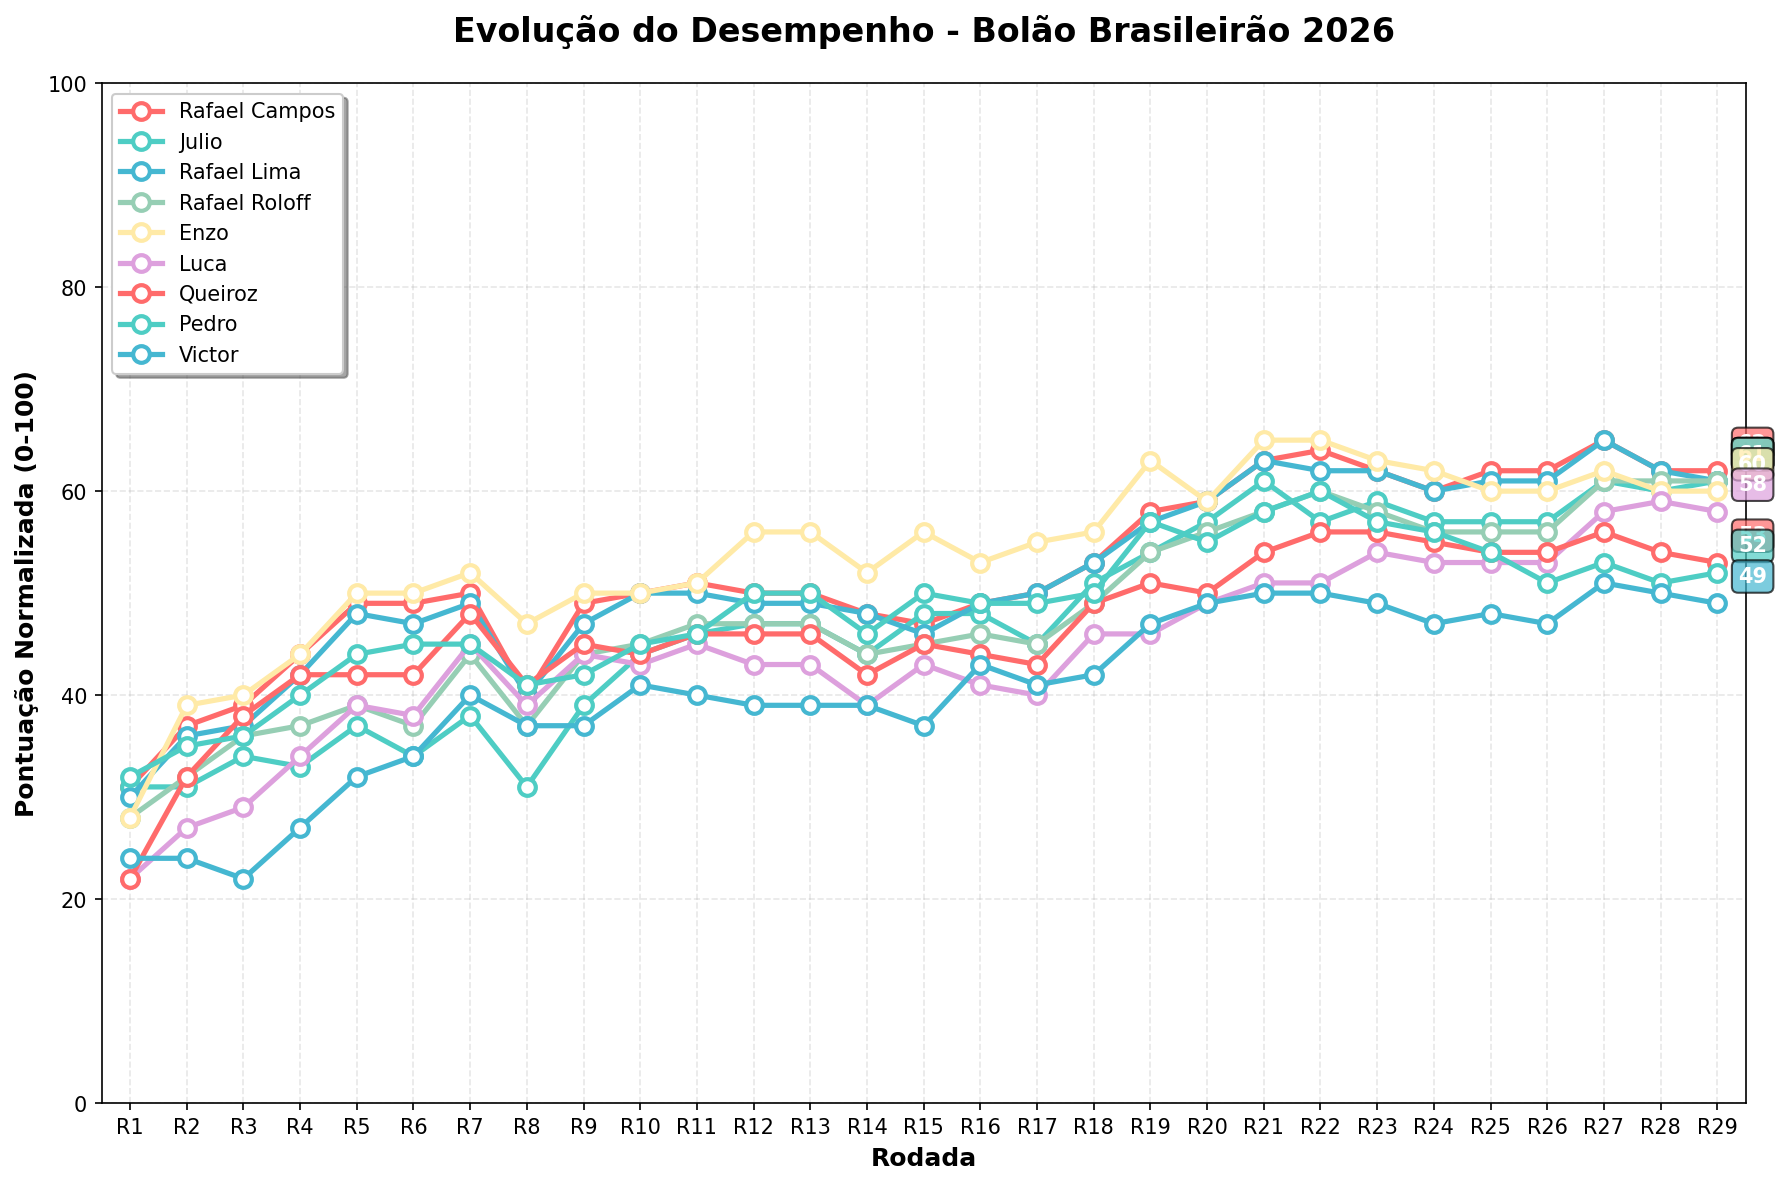
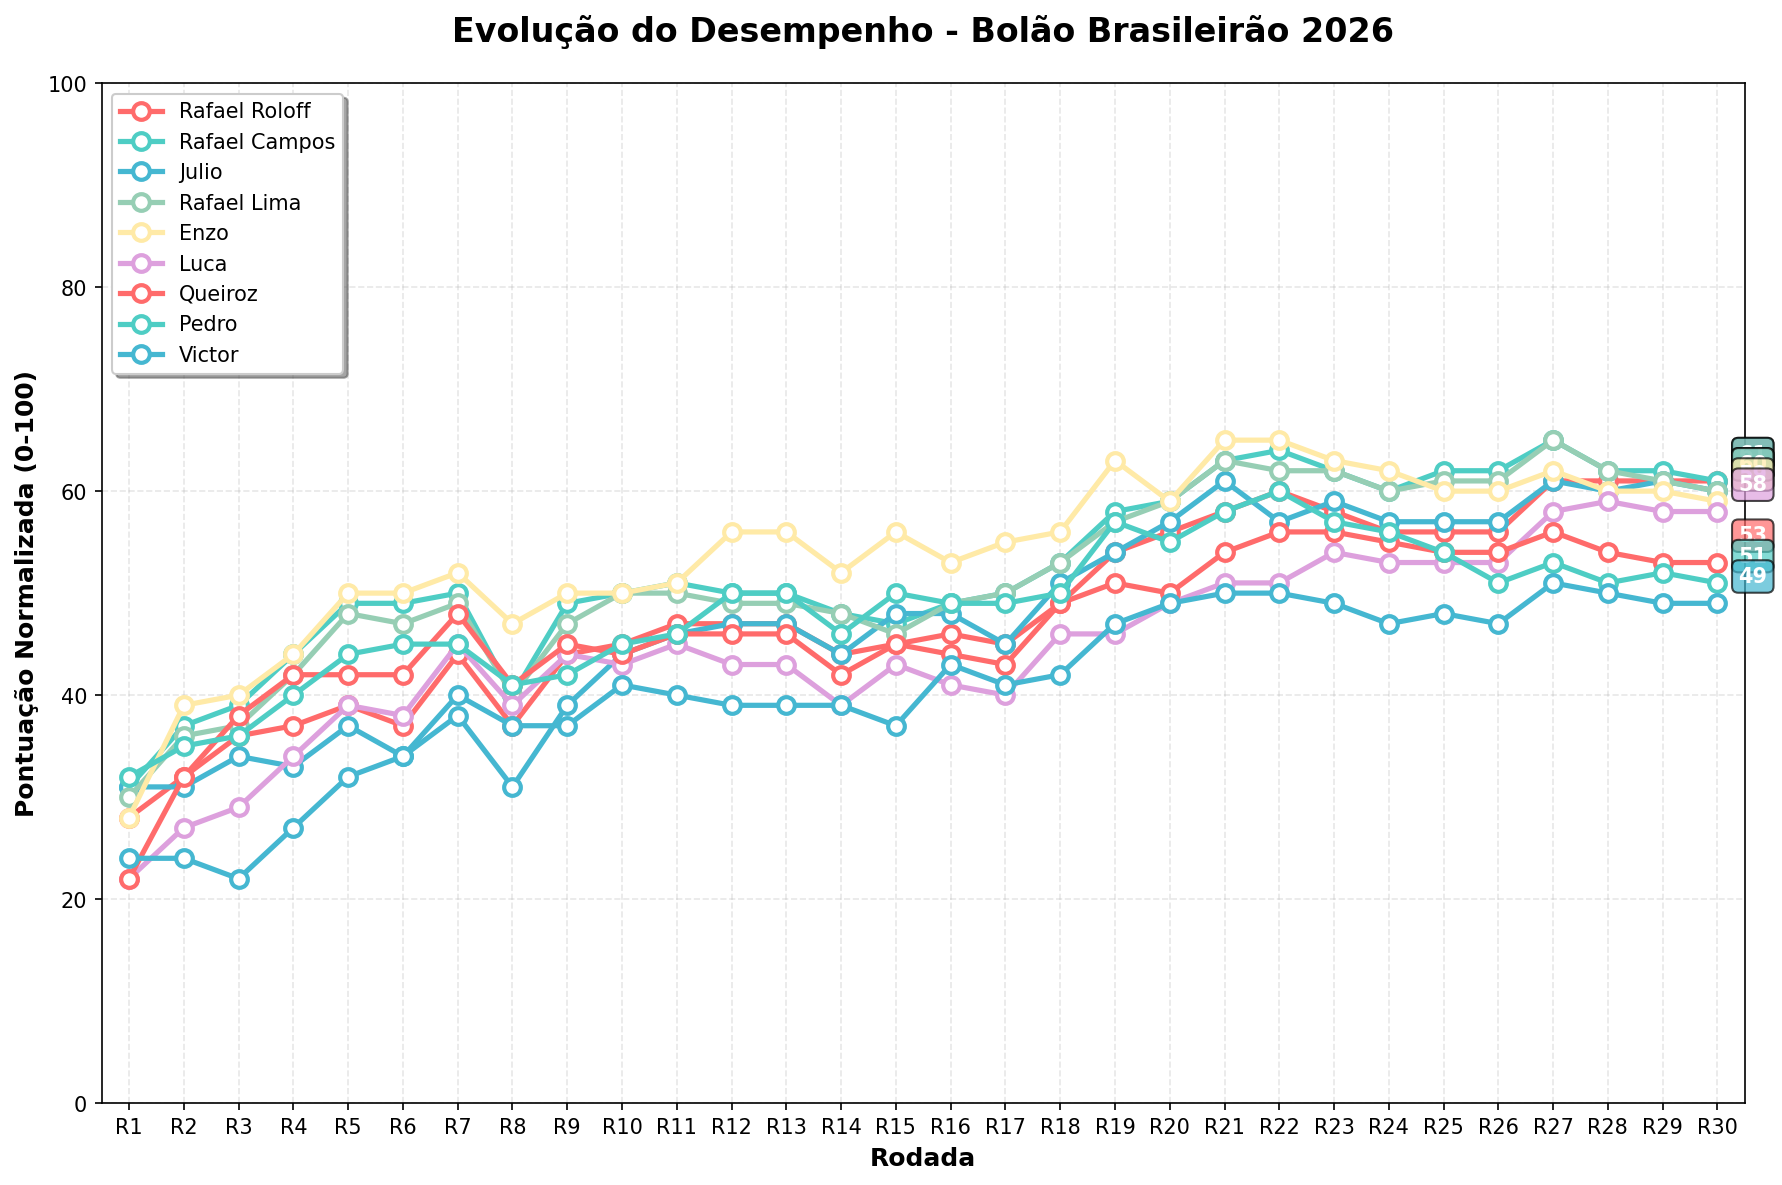
Atualizacao automatica - 11/10/2026 11:00:06,45

diff --git a/README.md b/README.md
@@ -2,71 +2,71 @@
 
 ## 🏆 Resultados Atuais
 
-**Última Atualização:** 2026-10-09 11:00:07
+**Última Atualização:** 2026-10-11 11:00:05
 
-| Time | Real | Rafael Campos | Julio | Rafael Lima | Rafael Roloff | Enzo | Luca | Queiroz | Pedro | Victor |
+| Time | Real | Rafael Roloff | Rafael Campos | Julio | Rafael Lima | Enzo | Luca | Queiroz | Pedro | Victor |
 |------|------|------|------|------|------|------|------|------|------|------|
 | Flamengo | 1 | 1°(20p) | 1°(20p) | 1°(20p) | 1°(20p) | 1°(20p) | 1°(20p) | 1°(20p) | 2°(19p) | 1°(20p) |
-| Palmeiras | 2 | 3°(19p) | 2°(20p) | 3°(19p) | 2°(20p) | 2°(20p) | 3°(19p) | 3°(19p) | 3°(19p) | 3°(19p) |
-| Fluminense | 3 | 7°(16p) | 7°(16p) | 6°(17p) | 8°(15p) | 4°(19p) | 8°(15p) | 7°(16p) | 4°(19p) | 10°(13p) |
+| Palmeiras | 2 | 2°(20p) | 3°(19p) | 2°(20p) | 3°(19p) | 2°(20p) | 3°(19p) | 3°(19p) | 3°(19p) | 3°(19p) |
+| Fluminense | 3 | 8°(15p) | 7°(16p) | 7°(16p) | 6°(17p) | 4°(19p) | 8°(15p) | 7°(16p) | 4°(19p) | 10°(13p) |
 | Atlético-PR | 4 | 17°(7p) | 17°(7p) | 17°(7p) | 17°(7p) | 17°(7p) | 17°(7p) | 15°(9p) | 18°(6p) | 13°(11p) |
-| Cruzeiro | 5 | 2°(17p) | 3°(18p) | 2°(17p) | 3°(18p) | 3°(18p) | 2°(17p) | 2°(17p) | 1°(16p) | 7°(18p) |
-| Bahia | 6 | 4°(18p) | 5°(19p) | 4°(18p) | 6°(20p) | 5°(19p) | 5°(19p) | 4°(18p) | 7°(19p) | 9°(17p) |
-| Atlético-MG | 7 | 5°(18p) | 4°(17p) | 5°(18p) | 4°(17p) | 12°(15p) | 4°(17p) | 9°(18p) | 13°(14p) | 2°(15p) |
-| Santos | 8 | 13°(15p) | 12°(16p) | 12°(16p) | 9°(19p) | 11°(17p) | 7°(19p) | 13°(15p) | 11°(17p) | 11°(17p) |
-| Coritiba | 9 | 16°(13p) | 19°(10p) | 16°(13p) | 14°(15p) | 15°(14p) | 20°(9p) | 12°(17p) | 19°(10p) | 20°(9p) |
-| Bragantino | 10 | 10°(20p) | 10°(20p) | 10°(20p) | 13°(17p) | 6°(16p) | 13°(17p) | 18°(12p) | 9°(19p) | 15°(15p) |
-| São Paulo | 11 | 12°(19p) | 15°(16p) | 14°(17p) | 16°(15p) | 16°(15p) | 14°(17p) | 17°(14p) | 15°(16p) | 16°(15p) |
-| Vitória | 12 | 18°(14p) | 16°(16p) | 18°(14p) | 18°(14p) | 18°(14p) | 18°(14p) | 19°(13p) | 17°(15p) | 17°(15p) |
-| Botafogo | 13 | 9°(16p) | 6°(13p) | 8°(15p) | 7°(14p) | 10°(17p) | 11°(18p) | 11°(18p) | 5°(12p) | 5°(12p) |
-| Vasco | 14 | 14°(20p) | 11°(17p) | 15°(19p) | 11°(17p) | 9°(15p) | 9°(15p) | 10°(16p) | 10°(16p) | 12°(18p) |
-| Mirassol | 15 | 11°(16p) | 8°(13p) | 11°(16p) | 10°(15p) | 13°(18p) | 12°(17p) | 8°(13p) | 12°(17p) | 14°(19p) |
-| Corinthians | 16 | 8°(12p) | 9°(13p) | 9°(13p) | 5°(9p) | 8°(12p) | 10°(14p) | 6°(10p) | 8°(12p) | 8°(12p) |
-| Internacional | 17 | 15°(18p) | 14°(17p) | 13°(16p) | 15°(18p) | 14°(17p) | 15°(18p) | 14°(17p) | 14°(17p) | 6°(9p) |
-| Grêmio | 18 | 6°(8p) | 18°(20p) | 7°(9p) | 12°(14p) | 7°(9p) | 6°(8p) | 5°(7p) | 6°(8p) | 4°(6p) |
-| Remo | 19 | 20°(19p) | 13°(14p) | 20°(19p) | 20°(19p) | 20°(19p) | 16°(17p) | 16°(17p) | 16°(17p) | 19°(20p) |
-| Chapecoense | 20 | 19°(19p) | 20°(20p) | 19°(19p) | 19°(19p) | 19°(19p) | 19°(19p) | 20°(20p) | 20°(20p) | 18°(18p) |
-| **TOTAL** | | **327** | **325** | **325** | **325** | **323** | **319** | **309** | **308** | **301** |
+| Cruzeiro | 5 | 3°(18p) | 2°(17p) | 3°(18p) | 2°(17p) | 3°(18p) | 2°(17p) | 2°(17p) | 1°(16p) | 7°(18p) |
+| Bahia | 6 | 6°(20p) | 4°(18p) | 5°(19p) | 4°(18p) | 5°(19p) | 5°(19p) | 4°(18p) | 7°(19p) | 9°(17p) |
+| Atlético-MG | 7 | 4°(17p) | 5°(18p) | 4°(17p) | 5°(18p) | 12°(15p) | 4°(17p) | 9°(18p) | 13°(14p) | 2°(15p) |
+| Santos | 8 | 9°(19p) | 13°(15p) | 12°(16p) | 12°(16p) | 11°(17p) | 7°(19p) | 13°(15p) | 11°(17p) | 11°(17p) |
+| São Paulo | 9 | 16°(13p) | 12°(17p) | 15°(14p) | 14°(15p) | 16°(13p) | 14°(15p) | 17°(12p) | 15°(14p) | 16°(13p) |
+| Coritiba | 10 | 14°(16p) | 16°(14p) | 19°(11p) | 16°(14p) | 15°(15p) | 20°(10p) | 12°(18p) | 19°(11p) | 20°(10p) |
+| Bragantino | 11 | 13°(18p) | 10°(19p) | 10°(19p) | 10°(19p) | 6°(15p) | 13°(18p) | 18°(13p) | 9°(18p) | 15°(16p) |
+| Vitória | 12 | 18°(14p) | 18°(14p) | 16°(16p) | 18°(14p) | 18°(14p) | 18°(14p) | 19°(13p) | 17°(15p) | 17°(15p) |
+| Botafogo | 13 | 7°(14p) | 9°(16p) | 6°(13p) | 8°(15p) | 10°(17p) | 11°(18p) | 11°(18p) | 5°(12p) | 5°(12p) |
+| Vasco | 14 | 11°(17p) | 14°(20p) | 11°(17p) | 15°(19p) | 9°(15p) | 9°(15p) | 10°(16p) | 10°(16p) | 12°(18p) |
+| Mirassol | 15 | 10°(15p) | 11°(16p) | 8°(13p) | 11°(16p) | 13°(18p) | 12°(17p) | 8°(13p) | 12°(17p) | 14°(19p) |
+| Corinthians | 16 | 5°(9p) | 8°(12p) | 9°(13p) | 9°(13p) | 8°(12p) | 10°(14p) | 6°(10p) | 8°(12p) | 8°(12p) |
+| Internacional | 17 | 15°(18p) | 15°(18p) | 14°(17p) | 13°(16p) | 14°(17p) | 15°(18p) | 14°(17p) | 14°(17p) | 6°(9p) |
+| Grêmio | 18 | 12°(14p) | 6°(8p) | 18°(20p) | 7°(9p) | 7°(9p) | 6°(8p) | 5°(7p) | 6°(8p) | 4°(6p) |
+| Remo | 19 | 20°(19p) | 20°(19p) | 13°(14p) | 20°(19p) | 20°(19p) | 16°(17p) | 16°(17p) | 16°(17p) | 19°(20p) |
+| Chapecoense | 20 | 19°(19p) | 19°(19p) | 20°(20p) | 19°(19p) | 19°(19p) | 19°(19p) | 20°(20p) | 20°(20p) | 18°(18p) |
+| **TOTAL** | | **325** | **325** | **323** | **323** | **321** | **319** | **309** | **306** | **301** |
 
 ### 🏅 Classificação Atual (pontuação normalizada 0-100)
 
-🥇 **Rafael Campos** (+3): 62 pontos<br>
-🥈 **Julio** (+3): 61 pontos<br>
-🥉 **Rafael Lima** (+3): 61 pontos<br>
-4. **Rafael Roloff** (+3): 61 pontos<br>
-5. **Enzo** (+3): 60 pontos<br>
+🥇 **Rafael Roloff** (+3): 61 pontos<br>
+🥈 **Rafael Campos** (+3): 61 pontos<br>
+🥉 **Julio** (+3): 60 pontos<br>
+4. **Rafael Lima** (+3): 60 pontos<br>
+5. **Enzo** (+3): 59 pontos<br>
 6. **Luca** (+3): 58 pontos<br>
 7. **Queiroz** (+3): 53 pontos<br>
-8. **Pedro**: 52 pontos<br>
+8. **Pedro**: 51 pontos<br>
 9. **Victor** (+3): 49 pontos<br>
 
 ### 📈 Histórico de Desempenho
 
 ![Gráfico de Performance](performance_chart.png)
 
-| Rodada | Rafael Campos | Julio | Rafael Lima | Rafael Roloff | Enzo | Luca | Queiroz | Pedro | Victor |
+| Rodada | Rafael Roloff | Rafael Campos | Julio | Rafael Lima | Enzo | Luca | Queiroz | Pedro | Victor |
 |-------|-------|-------|-------|-------|-------|-------|-------|-------|-------|
-| R20 | 59 | 57 | 59 | 56 | 59 | 49 | 50 | 55 | 49 |
-| R21 | 63 | 61 | 63 | 58 | 65 | 51 | 54 | 58 | 50 |
-| R22 | 64 | 57 | 62 | 60 | 65 | 51 | 56 | 60 | 50 |
-| R23 | 62 | 59 | 62 | 58 | 63 | 54 | 56 | 57 | 49 |
-| R24 | 60 | 57 | 60 | 56 | 62 | 53 | 55 | 56 | 47 |
-| R25 | 62 | 57 | 61 | 56 | 60 | 53 | 54 | 54 | 48 |
-| R26 | 62 | 57 | 61 | 56 | 60 | 53 | 54 | 51 | 47 |
-| R27 | 65 | 61 | 65 | 61 | 62 | 58 | 56 | 53 | 51 |
-| R28 | 62 | 60 | 62 | 61 | 60 | 59 | 54 | 51 | 50 |
-| R29 | 62 | 61 | 61 | 61 | 60 | 58 | 53 | 52 | 49 |
+| R21 | 58 | 63 | 61 | 63 | 65 | 51 | 54 | 58 | 50 |
+| R22 | 60 | 64 | 57 | 62 | 65 | 51 | 56 | 60 | 50 |
+| R23 | 58 | 62 | 59 | 62 | 63 | 54 | 56 | 57 | 49 |
+| R24 | 56 | 60 | 57 | 60 | 62 | 53 | 55 | 56 | 47 |
+| R25 | 56 | 62 | 57 | 61 | 60 | 53 | 54 | 54 | 48 |
+| R26 | 56 | 62 | 57 | 61 | 60 | 53 | 54 | 51 | 47 |
+| R27 | 61 | 65 | 61 | 65 | 62 | 58 | 56 | 53 | 51 |
+| R28 | 61 | 62 | 60 | 62 | 60 | 59 | 54 | 51 | 50 |
+| R29 | 61 | 62 | 61 | 61 | 60 | 58 | 53 | 52 | 49 |
+| R30 | 61 | 61 | 60 | 60 | 59 | 58 | 53 | 51 | 49 |
 
 **Tendência (últimas 2 medições):**
-- **Rafael Campos**: ➡ =0
-- **Julio**: 📈 +1
-- **Rafael Lima**: 📉 -1
 - **Rafael Roloff**: ➡ =0
-- **Enzo**: ➡ =0
-- **Luca**: 📉 -1
-- **Queiroz**: 📉 -1
-- **Pedro**: 📈 +1
-- **Victor**: 📉 -1
+- **Rafael Campos**: 📉 -1
+- **Julio**: 📉 -1
+- **Rafael Lima**: 📉 -1
+- **Enzo**: 📉 -1
+- **Luca**: ➡ =0
+- **Queiroz**: ➡ =0
+- **Pedro**: 📉 -1
+- **Victor**: ➡ =0
 
 ## 🎯 Sistema de Pontuação
 
